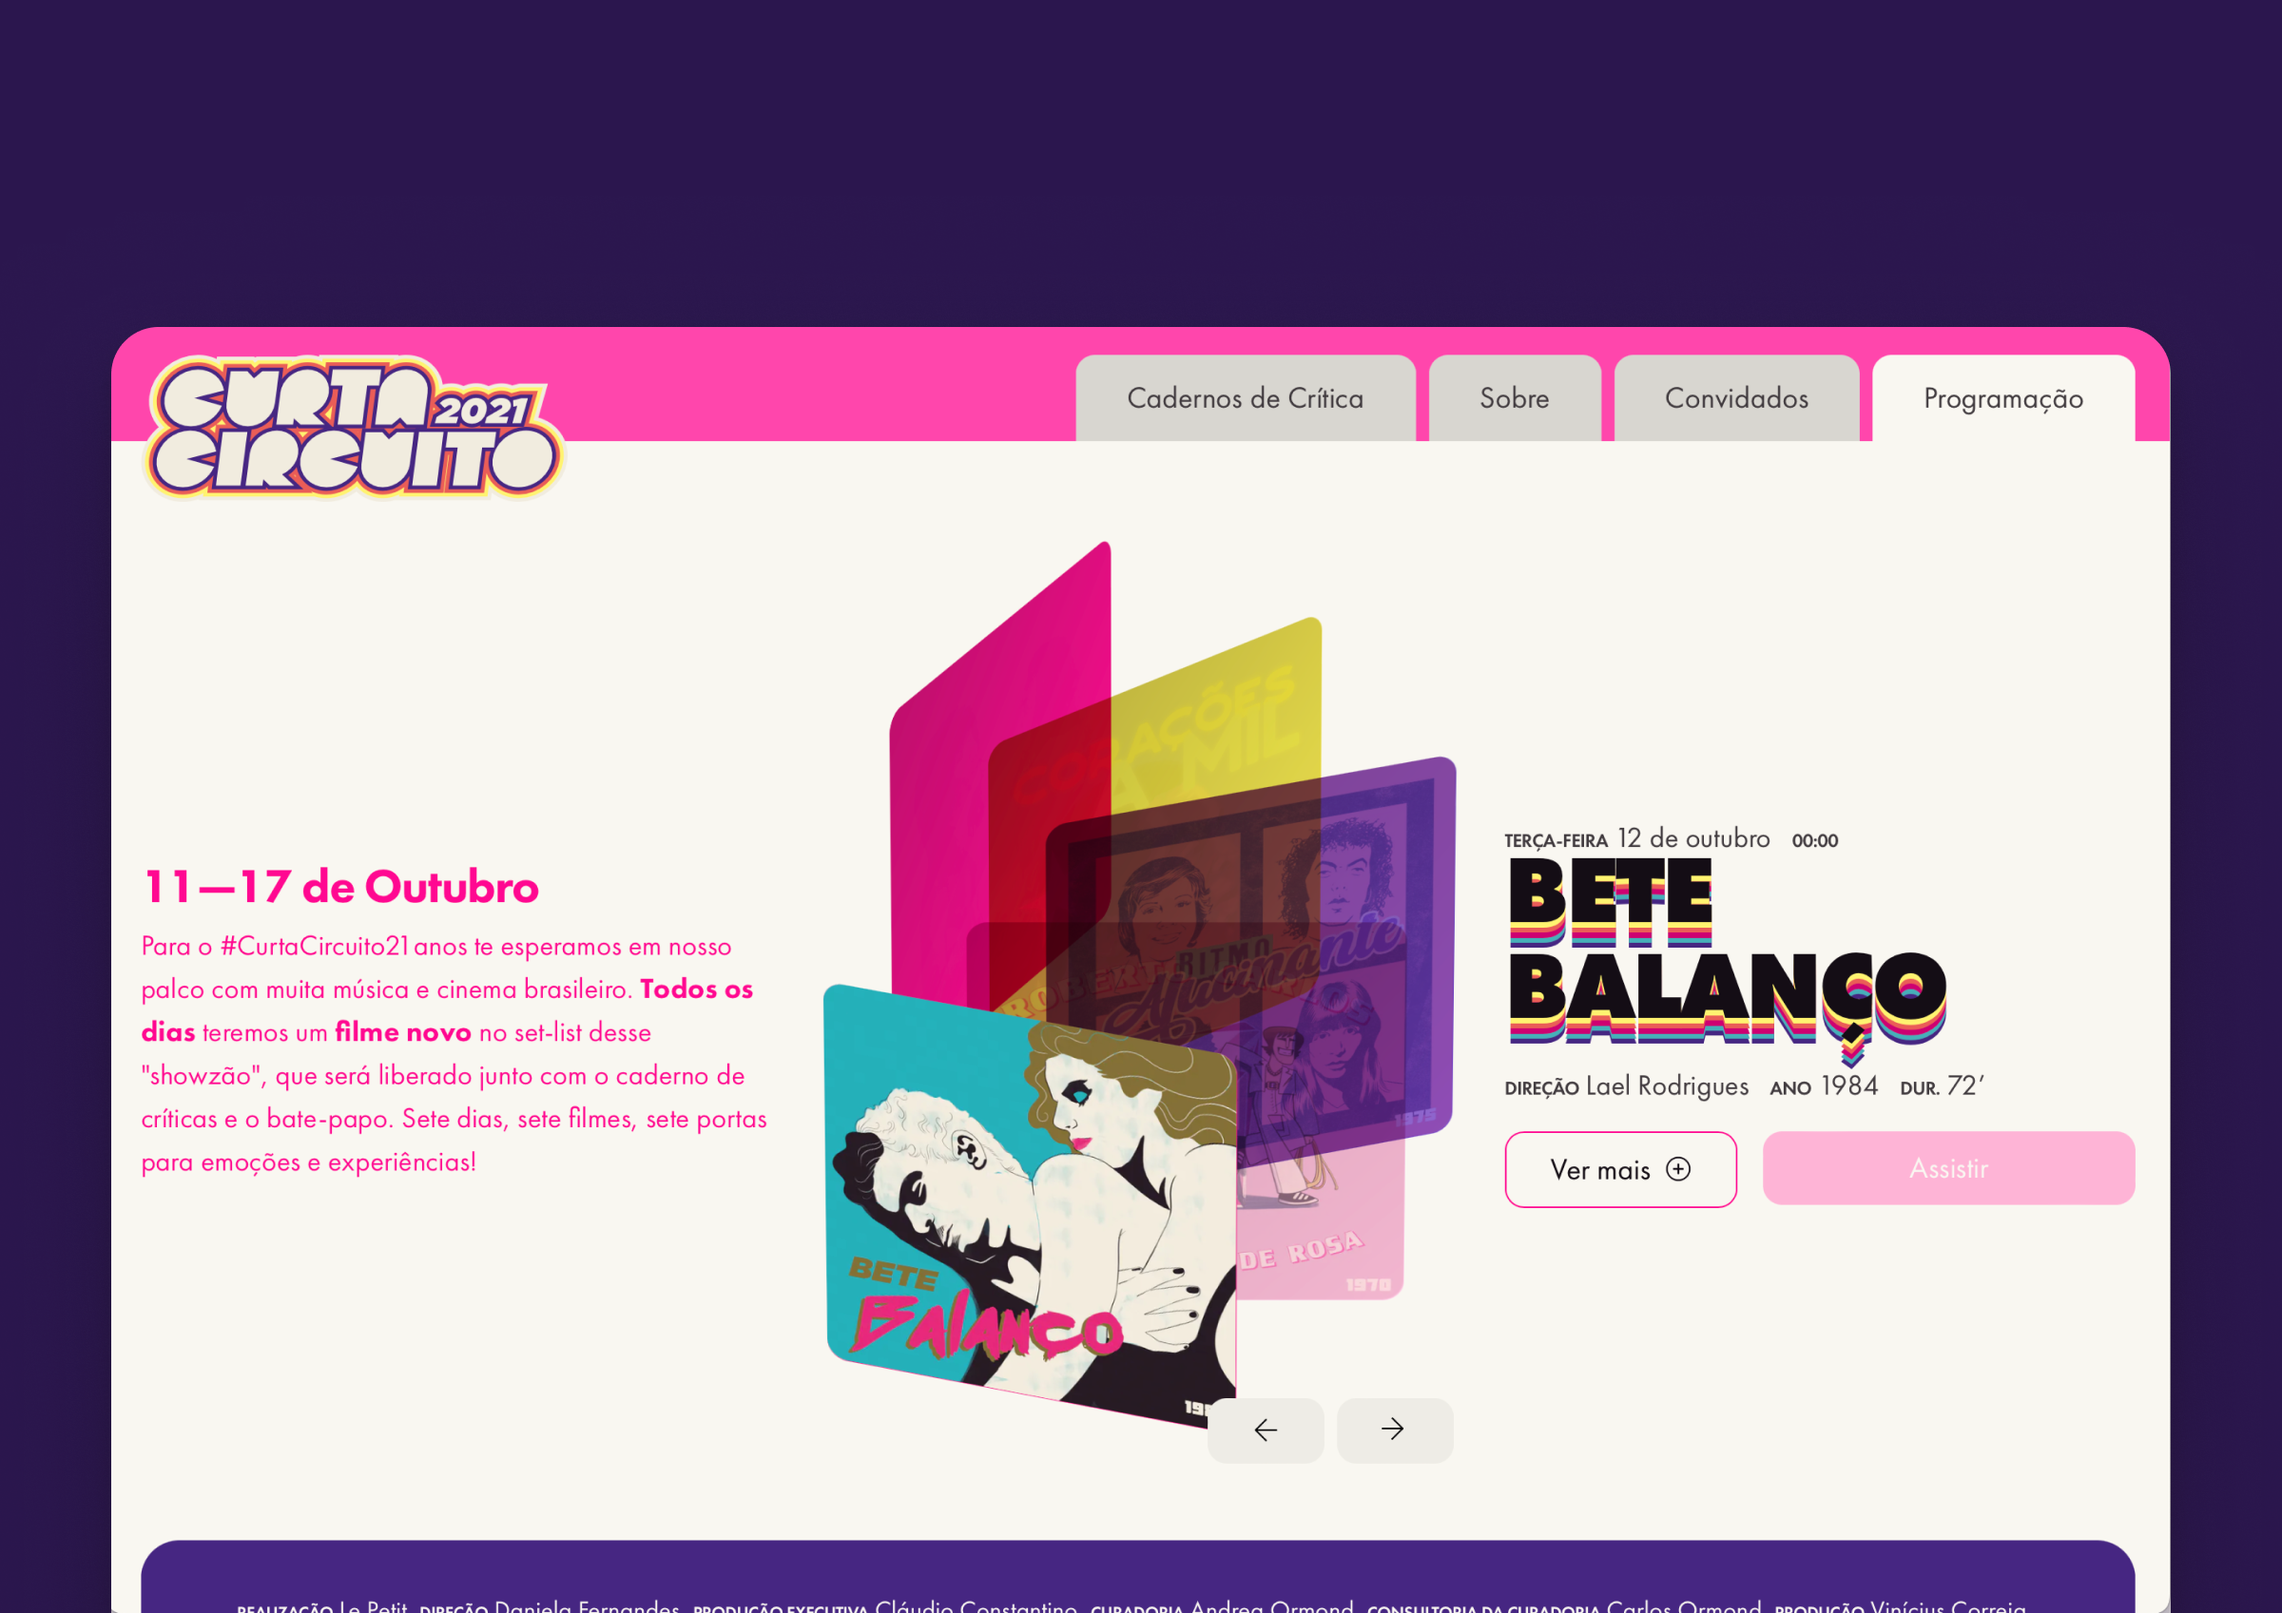
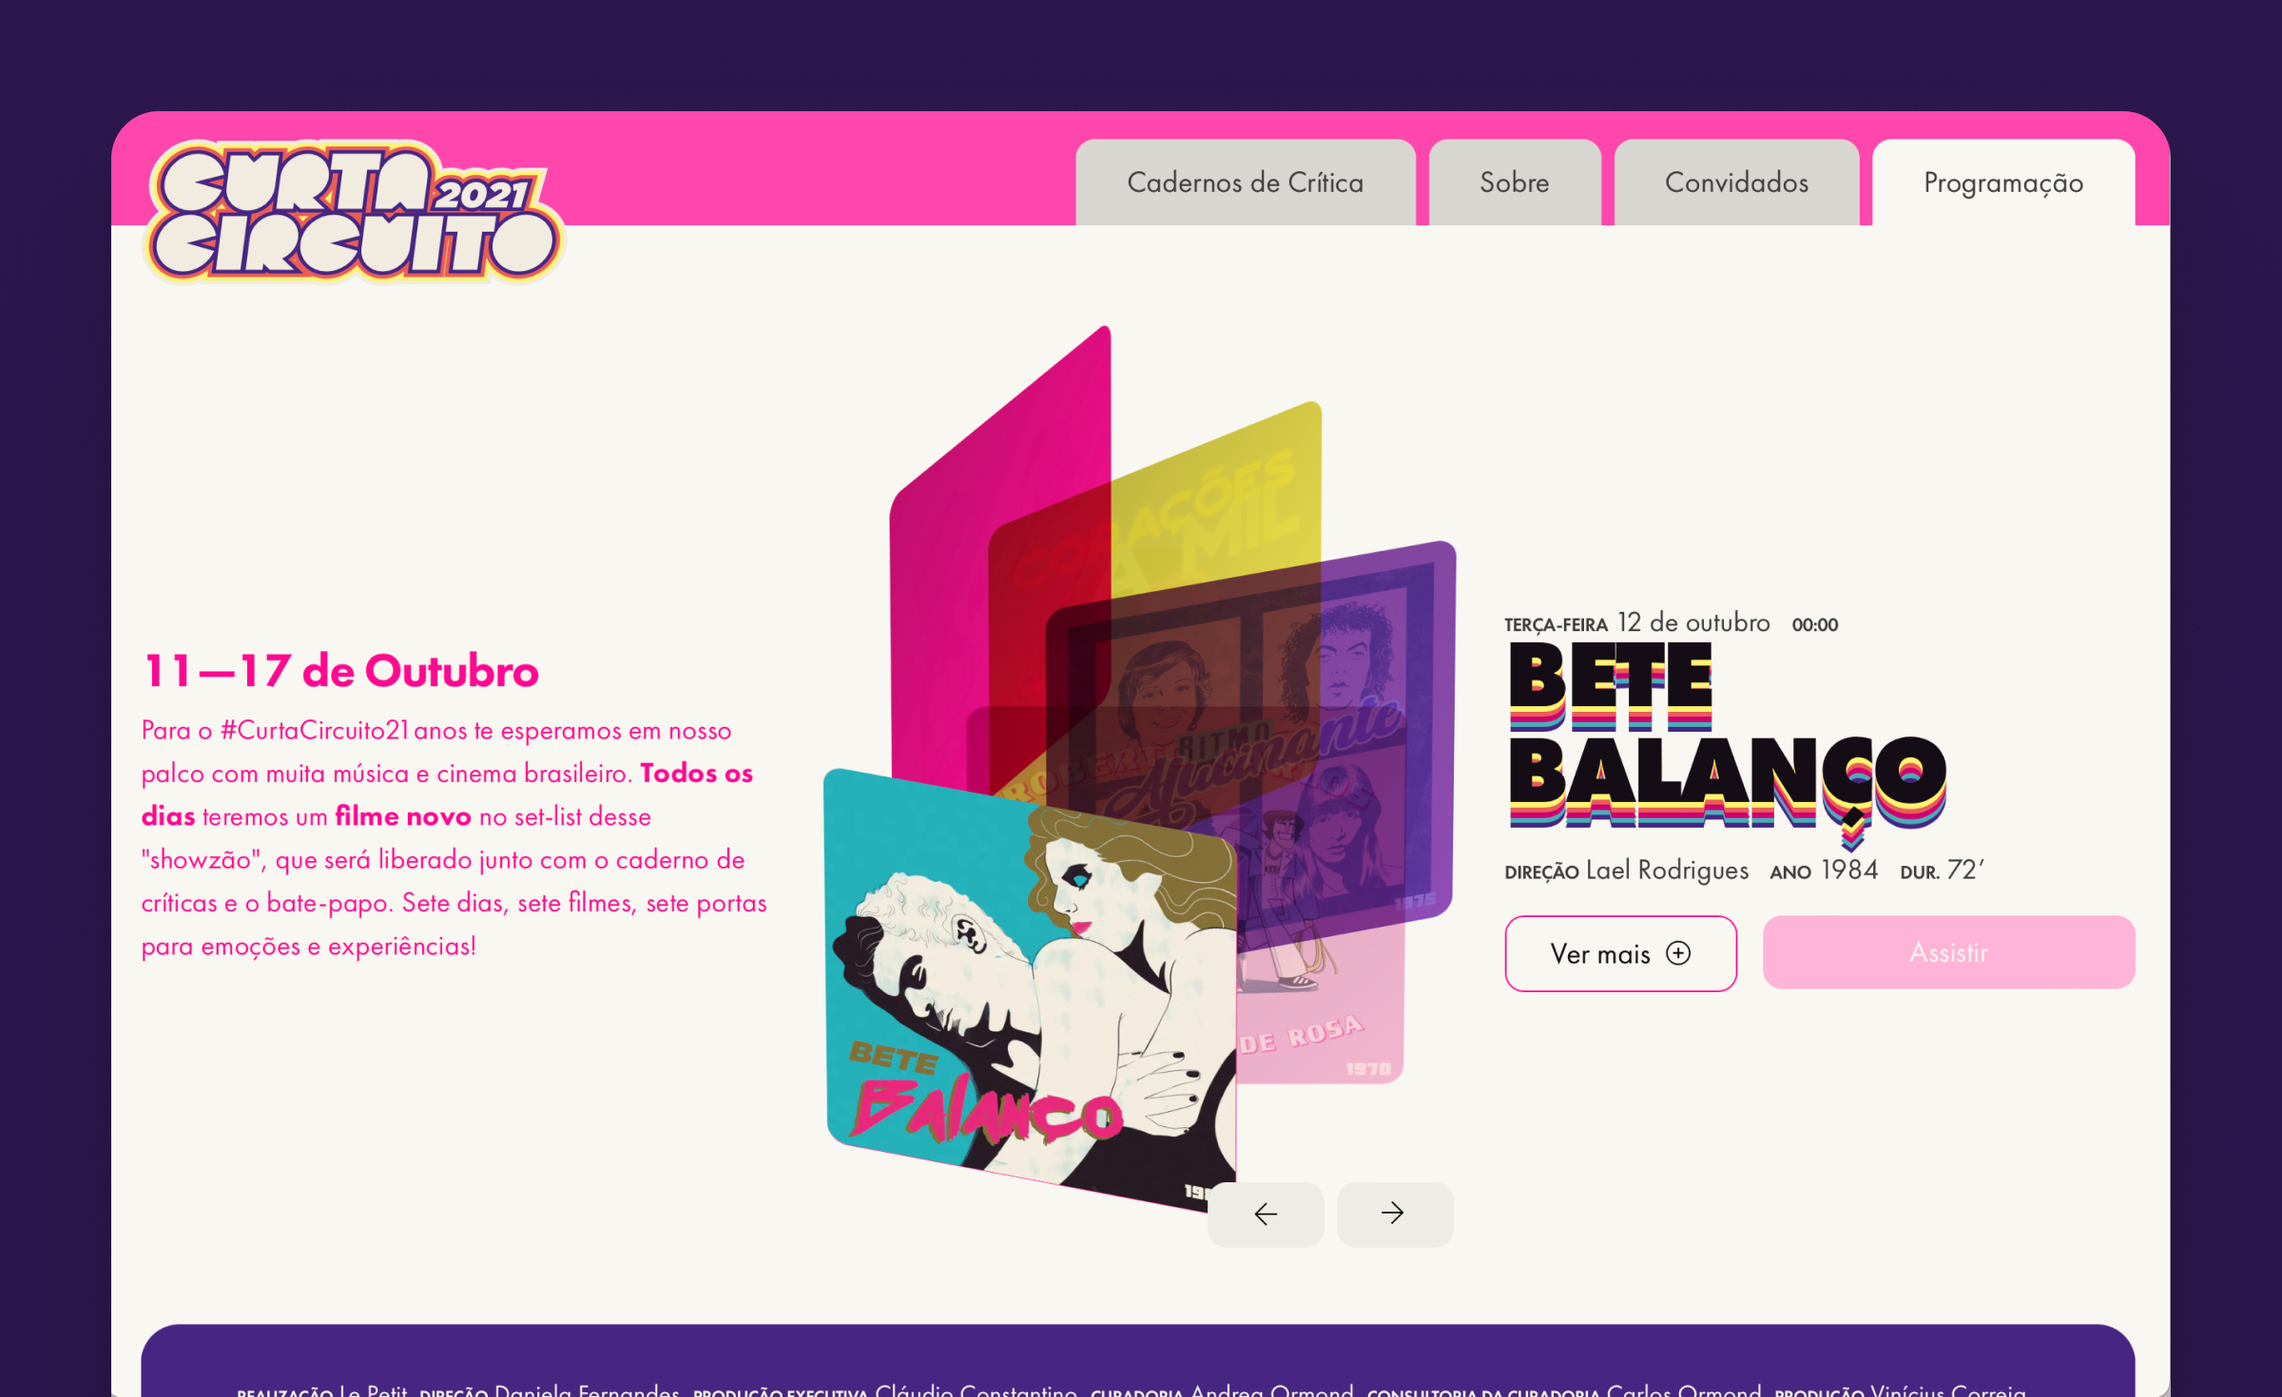
style: remove extra space on image bgs

diff --git a/src/components/common/ProjectCard/ProjectCard.tsx b/src/components/common/ProjectCard/ProjectCard.tsx
@@ -6,7 +6,7 @@ import { Wrapper } from './ProjectCart.parts';
 
 type ProjectThumbProps = Project;
 
-const THUMB = { height: 1697, width: 2400 };
+const THUMB = { height: 1470, width: 2400 };
 
 const ProjectThumb: React.FC<ProjectThumbProps> = props => {
 	const { image, title, year, description, tags, link } = props;
